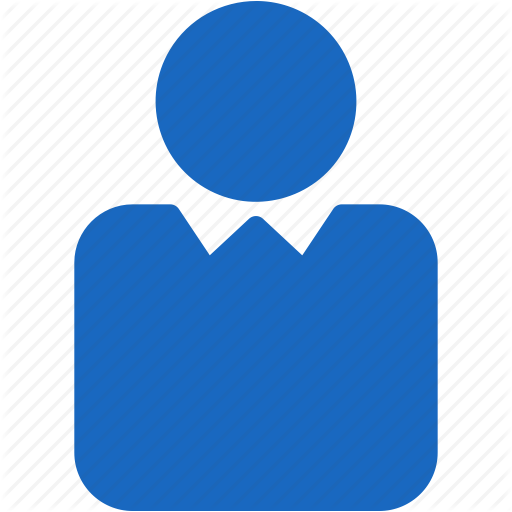
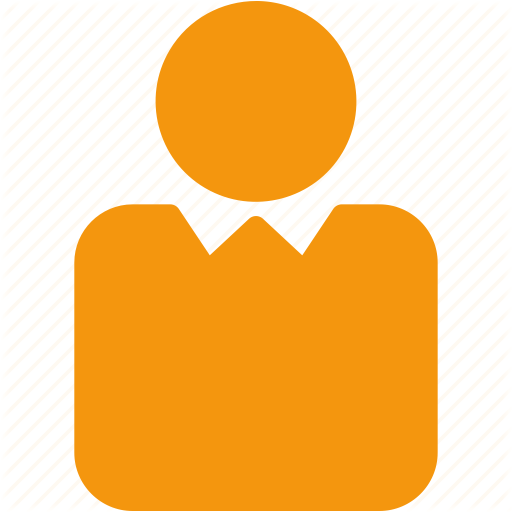
menu client

diff --git a/application/menu/menuClient.php b/application/menu/menuClient.php
@@ -1,3 +1,57 @@
+<!DOCTYPE html>
+<html>
+<head>
+    <title></title>
+</head>
+<style>
+    .iconedeco {
+  width:100%; 
+  height: 50px; 
+  border:2px solid #f4960e;
+  background: #fff; 
+  cursor: pointer;
+}
+
+.drop12 {
+  position: relative;
+  display: inline-block;
+}
+
+.dropcontent {
+  display: none;
+  position: absolute;
+  background-color: #f9f9f9;
+  min-width: 160px;
+  box-shadow: 0px 8px 16px 0px rgba(0,0,0,0.2);
+  z-index: 1;
+}
+
+.dropcontent a {
+  color:#f4960e;
+  padding: 12px 16px;
+  text-decoration: none;
+  display: block;
+  font-weight: bold;
+}
+
+.dropcontent a:hover {
+    background-color: #f4960e;
+    color: #fff;
+    font-weight: bold;
+}
+
+.drop12:hover .dropcontent {
+  display: block;
+}
+
+.iconedeco:hover{
+        width:100%; 
+        height: 50px; 
+        border:2px solid #f4960e;
+        background: #222222;
+    }
+</style>    
+<body>
 <nav class="navbar navbar-expand-lg navbar-dark site_navbar bg-dark site-navbar-light" id="site-navbar">
     <div class="container">
         <a class="navbar-brand" href="index.php?page=home"><img src="assets/images/Logo.png" style="width: 89px; height:70px;">  </a>
@@ -14,17 +68,25 @@
                 <li class="nav-item"><a href="index.php?page=offres" class="nav-link">Offres d'emplois</a></li>
                 <li class="nav-item"><a href="index.php?page=apropos" class="nav-link">A propos</a></li>
                 <li class="nav-item"><a href="index.php?page=contact" class="nav-link">Contact</a></li>
-
-              <li class="nav-item"><a href="logout.php" class="nav-link">Deconnexion</a></li>
+                <li>
+                    <ul style="position: relative; list-style: none;">
+                        <div class="drop12">
+                            <a href="#" class="nav-link">
+                                <img class="iconedeco" src="assets/images/compte.png">
+                            </a>
+                            <div class="dropcontent">
+                              <li ><a href="logout.php">Deconnexion</a></li>
+                              <li ><a href="#">Liste1</a></li>
+                              <li ><a href="#">Liste2</a></li>
+                              <li ><a href="#">Liste2</a></li>
+                            </div>
+                        </div>
+                    </ul>      
+                </li>  
           </ul>
-
-
         </div>
-
-      </div>
-    <ul style="position: relative; list-style: none;">
-            <a href="#" class="nav-link"><img width="48px" src="assets/images/compte.png"></a>
+      </div>  
     </nav>
-<div
-
     <?php include("pages/connexion.php"); ?>
+</body>
+</html>

diff --git a/application/menu/menunonconnecte.php b/application/menu/menunonconnecte.php
@@ -1,4 +1,27 @@
 
+<!DOCTYPE html>
+<html>
+<head>
+  <title></title>
+</head>
+<style>
+  .btn-9{
+    background: #f4960e;
+    color: #222222;
+    font-weight: bold;
+    border: 2px solid #222222;
+    padding: 5px 20px; 
+    text-align: center;
+  }
+  .btn-9:hover{
+    background:#000;
+    color: #f4960e;
+    font-weight: bold;
+    border: 2px solid #f4960e;
+    padding: 5px 20px; 
+  }
+</style>  
+<body>
 <nav class="navbar navbar-expand-lg navbar-dark site_navbar bg-dark site-navbar-light" id="site-navbar">
       <div class="container">
         <a class="navbar-brand" href="index.php?page=home"><img src="assets/images/Logo.png" style="width: 89px; height:70px;">  </a>
@@ -21,7 +44,9 @@
 
         </div>
       </div>
-    <a href="index.php?page=connexion" data-toggle="modal" data-target="#modalConnexion" class="btn btn-info">Se connecter</a>
+    <a href="index.php?page=connexion" data-toggle="modal" data-target="#modalConnexion" class="btn-9">Se connecter</a>
     </nav>
 
     <?php include("pages/connexion.php"); ?>
+</body>
+</html>
